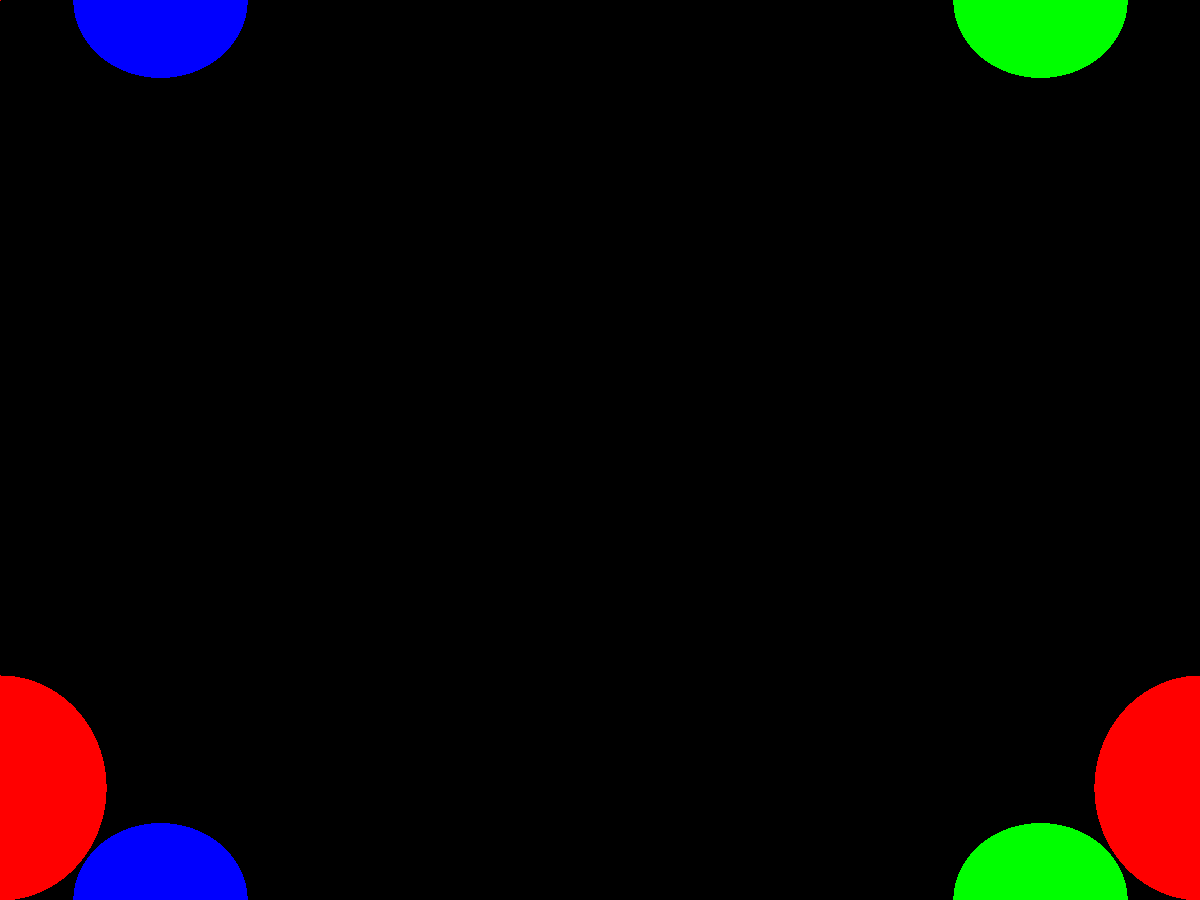
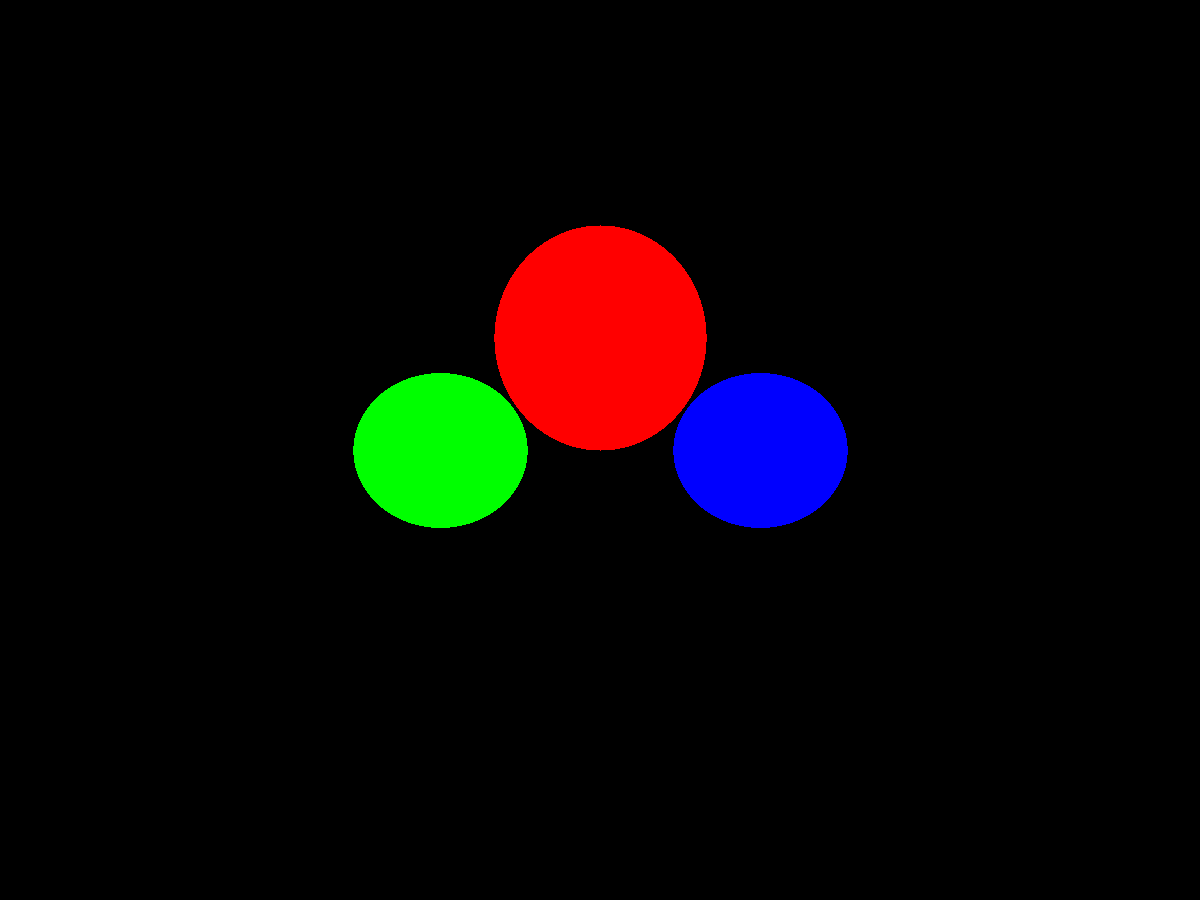
loop issue fixed, but eliptic sphere

diff --git a/rayTracer.py b/rayTracer.py
@@ -1,3 +1,4 @@
+import math
 from utils.vector import Vector
 from core.scene import Scene
 from core.camera import Camera
@@ -14,10 +15,12 @@ class RayTracer:
         
         print("Rendering...")
         for i in range(-self.camera.Cw // 2, self.camera.Cw // 2):
+            x = i + self.camera.Cw // 2
             for j in range(-self.camera.Ch // 2, self.camera.Ch // 2):
+                y = j + self.camera.Ch // 2
                 direction: Vector = self.camera.canvasToViewport(i, j)
-                color: tuple = self.scene.traceRay(self.camera.pos, direction)
-                self.img.putpixel((i, j), color)
+                color: tuple = self.scene.traceRay(self.camera.pos, direction, t_min=1.0, t_max=math.inf)
+                self.img.putpixel((x, y), color)
         self.saveImg("output.png")
         
     def saveImg(self, fileName: str):

diff --git a/core/camera.py b/core/camera.py
@@ -13,7 +13,7 @@ class Camera:
         
         self.pos: Vector = Vector(0, 0, 0)
         
-        self.canvas: List[list] = [[(0, 0, 0) for _ in range(4)] for _ in range(3)]
+        self.canvas: List[list] = [[(0, 0, 0) for _ in range(self.Cw)] for _ in range(self.Ch)]
     
     def __repr__(self) -> str:
         return f"Camera details :\n\tVw : {self.Vw} | Vh : {self.Vh}\n\tDistance d : {self.d}\n\tCw : {self.Cw} | Ch : {self.Ch}"
@@ -23,4 +23,4 @@ class Camera:
             x * self.Vw / self.Cw,
             y * self.Vh / self.Ch,
             self.d
-        ).normalize()
+        )

diff --git a/objects/sphere.py b/objects/sphere.py
@@ -22,6 +22,6 @@ class Sphere(Object3D):
         delta = b * b - 4 * a * c
         if delta < 0:
             return math.inf, math.inf
-        t1 = (-b + delta**0.5) / 2
-        t2 = (-b - delta**0.5) / 2
+        t1 = (-b + delta**0.5) / (2*a) 
+        t2 = (-b - delta**0.5) / (2*a)
         return t1, t2
